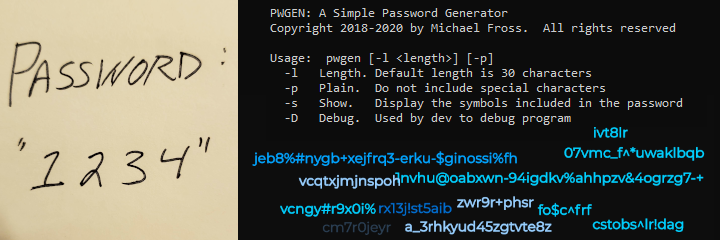
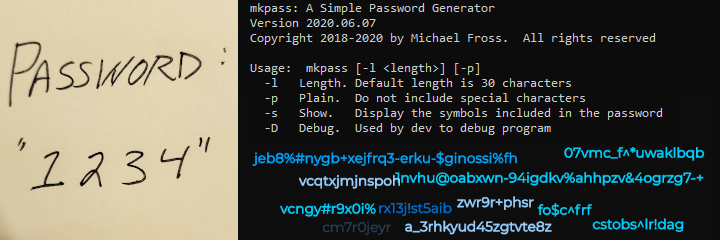
Renamed pwgen project to mkpass

Changed region(s): [[0.3361, 0.2042, 0.9472, 0.5833], [0.3361, 0.0, 0.9472, 0.2042], [0.825, 0.525, 0.8861, 0.5833]]

diff --git a/src/main/java/org/fross/mkpass/Main.java b/src/main/java/org/fross/mkpass/Main.java
@@ -1,5 +1,5 @@
 /*
- * pwgen: Generate Secure Passwords on the command line
+ * mkpass: Generate Secure Passwords on the command line
  * 
  * This code is directly from the Wikipedia article:
  * https://en.wikipedia.org/wiki/Random_password_generator
@@ -8,7 +8,7 @@
  * 
  */
 
-package org.fross.pwgen;
+package org.fross.mkpass;
 
 import java.io.IOException;
 import java.io.InputStream;
@@ -59,7 +59,7 @@ public class Main {
 		}
 
 		// Process Command Line Options and set flags where needed
-		Getopt optG = new Getopt("PWGen", args, "Dl:psh?");
+		Getopt optG = new Getopt("mkpass", args, "Dl:psh?");
 		while ((optionEntry = optG.getopt()) != -1) {
 			switch (optionEntry) {
 			case 'D':
@@ -86,15 +86,15 @@ public class Main {
 
 			case '?': // Help
 			case 'h':
-				System.out.println("PWGEN: A Simple Password Generator");
+				System.out.println("mkpass: A Simple Password Generator");
 				System.out.println("Version " + VERSION);
 				System.out.println(COPYRIGHT+"\n");
-				System.out.println("Usage:  pwgen [-l <length>] [-p]");
+				System.out.println("Usage:  mkpass [-l <length>] [-p]");
 				System.out.println("  -l   Length. Default length is 30 characters");
 				System.out.println("  -p   Plain.  Do not include special characters");
 				System.out.println("  -s   Show.   Display the symbols included in the password");
 				System.out.println("  -D   Debug.  Used by dev to debug program");
-				System.out.println("\nNote: If pwgen seems to hang, install 'rng-tools'\n");
+				System.out.println("\nNote: If mkpass seems to hang, install 'rng-tools'\n");
 				System.exit(0);
 				break;
 
